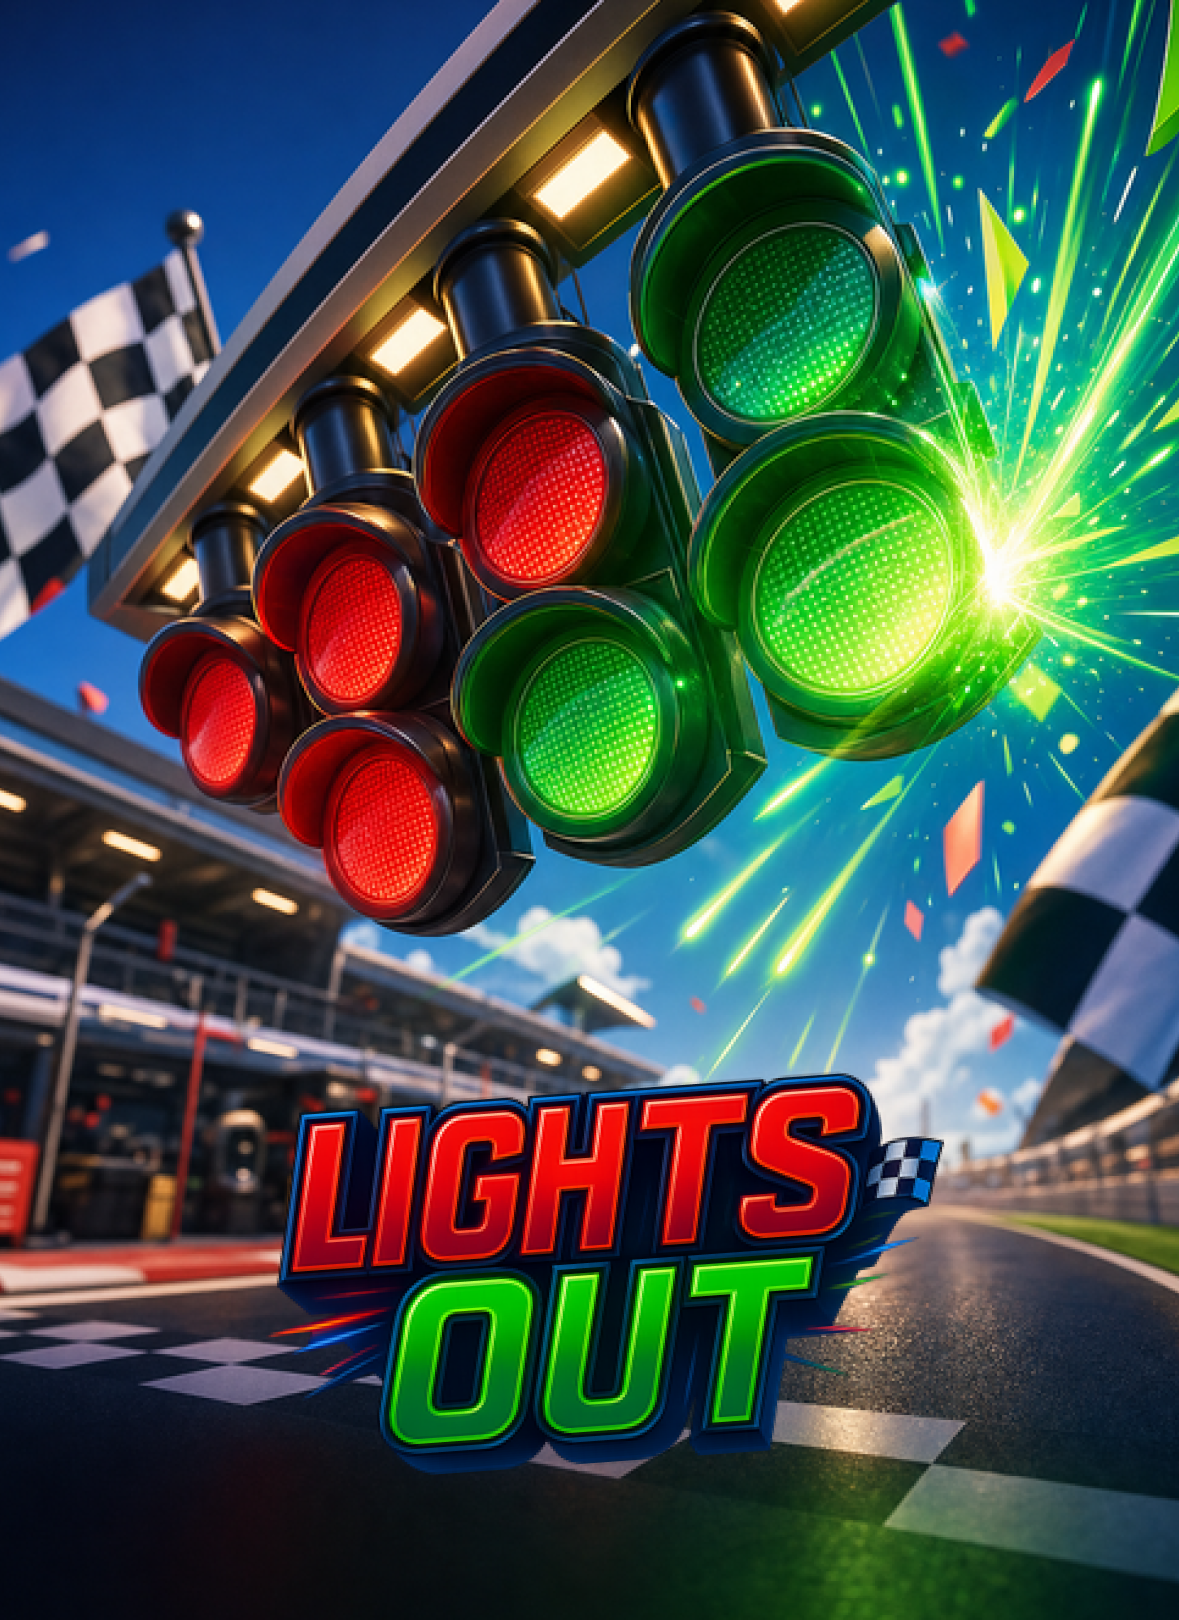
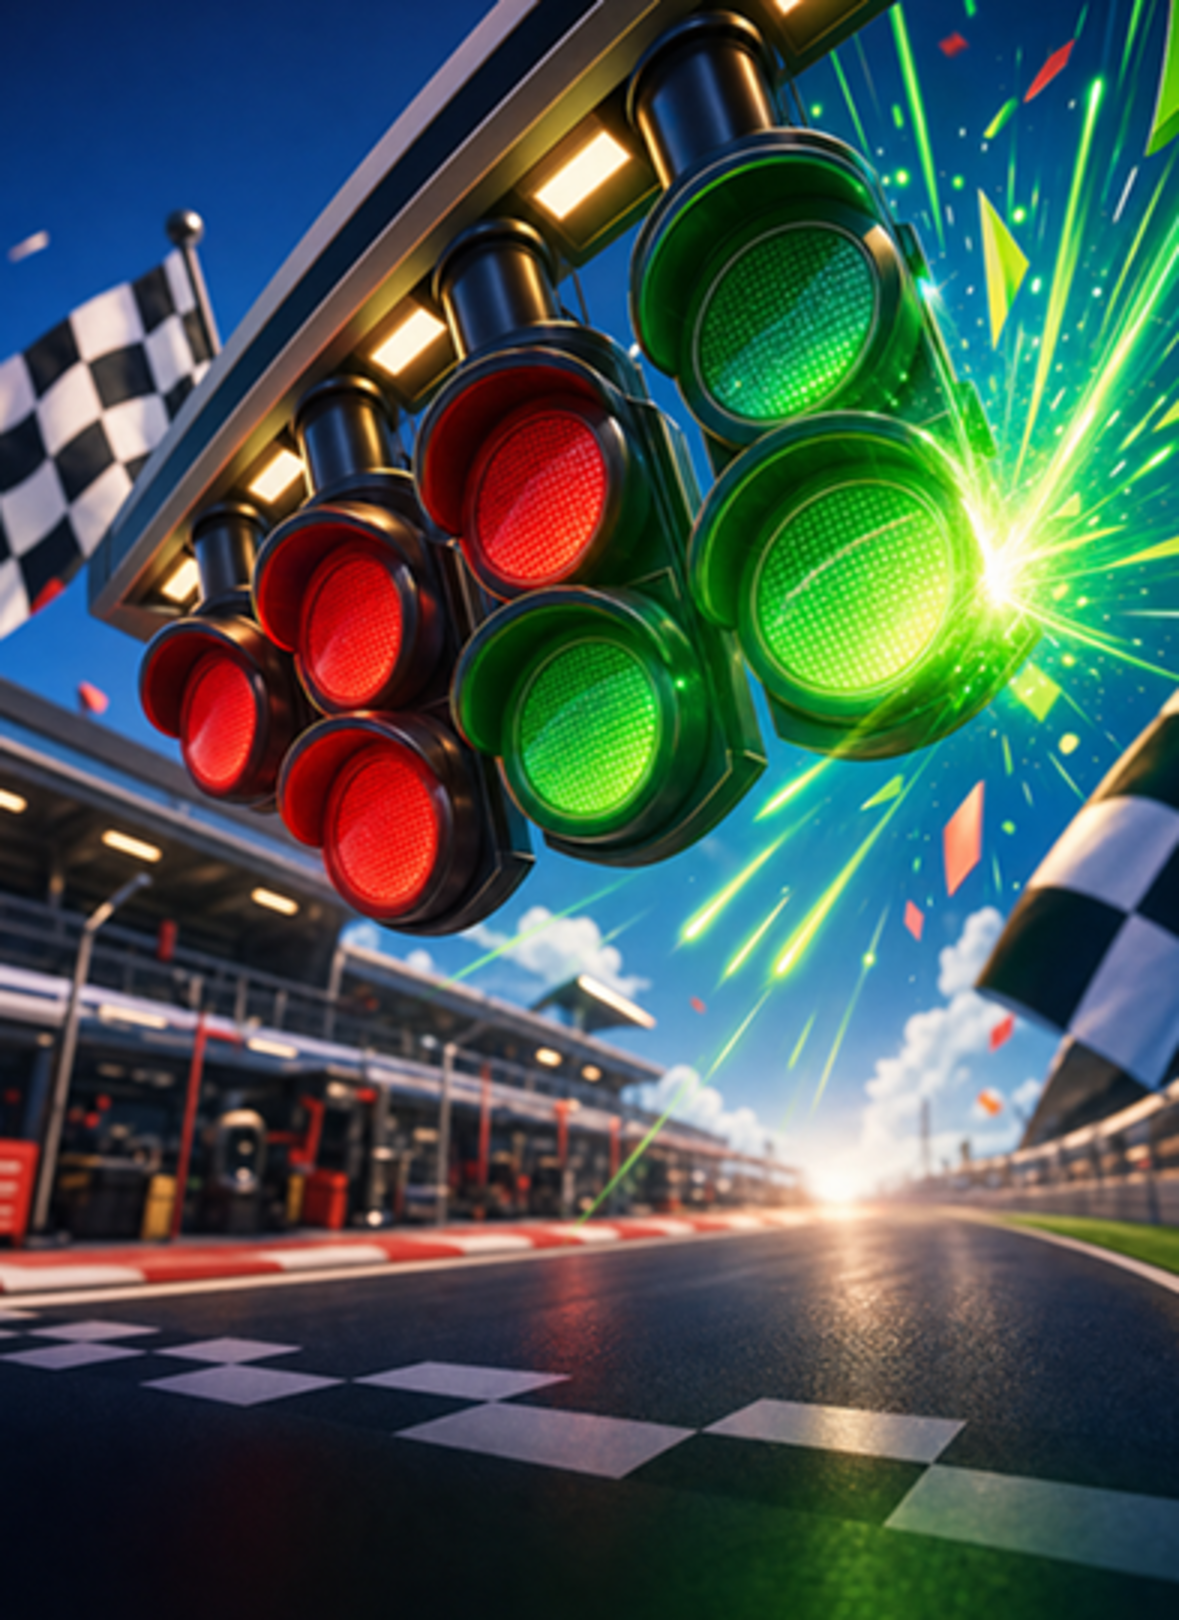
Update large OG preview image

diff --git a/preview/tap-to-try-yours-lights-out-large-og/index.html b/preview/tap-to-try-yours-lights-out-large-og/index.html
@@ -10,13 +10,13 @@
   <meta property="og:type" content="website">
   <meta property="og:url" content="https://chrisbiron.github.io/imessage-preview-lab/preview/tap-to-try-yours-lights-out-large-og/">
   <meta property="og:title" content="tap to try yours">
-  <meta property="og:image" content="https://chrisbiron.github.io/imessage-preview-lab/assets/tap-lights-out-large-og.png?v=1">
-  <meta property="og:image:secure_url" content="https://chrisbiron.github.io/imessage-preview-lab/assets/tap-lights-out-large-og.png?v=1">
+  <meta property="og:image" content="https://chrisbiron.github.io/imessage-preview-lab/assets/tap-lights-out-large-og.png?v=2">
+  <meta property="og:image:secure_url" content="https://chrisbiron.github.io/imessage-preview-lab/assets/tap-lights-out-large-og.png?v=2">
   <meta property="og:image:type" content="image/png">
   <meta property="og:image:width" content="1179">
   <meta property="og:image:height" content="1620">
   <meta name="twitter:card" content="summary_large_image">
-  <meta name="twitter:image" content="https://chrisbiron.github.io/imessage-preview-lab/assets/tap-lights-out-large-og.png?v=1">
+  <meta name="twitter:image" content="https://chrisbiron.github.io/imessage-preview-lab/assets/tap-lights-out-large-og.png?v=2">
   <meta name="twitter:title" content="tap to try yours">
   <link rel="alternate" type="application/activity+json" href="https://chrisbiron.github.io/imessage-preview-lab/activity/tap-to-try-yours-lights-out-large-og.json">
 </head>
@@ -81,7 +81,7 @@
           
     <div>
       <dt>og:image</dt>
-      <dd>https://chrisbiron.github.io/imessage-preview-lab/assets/tap-lights-out-large-og.png?v=1</dd>
+      <dd>https://chrisbiron.github.io/imessage-preview-lab/assets/tap-lights-out-large-og.png?v=2</dd>
     </div>
           
     <div>
@@ -105,7 +105,7 @@
     </div>
         </dl>
         <div class="assetPreview">
-          <img alt="" src="https://chrisbiron.github.io/imessage-preview-lab/assets/tap-lights-out-large-og.png?v=1">
+          <img alt="" src="https://chrisbiron.github.io/imessage-preview-lab/assets/tap-lights-out-large-og.png?v=2">
         </div>
       </div>
     </section>